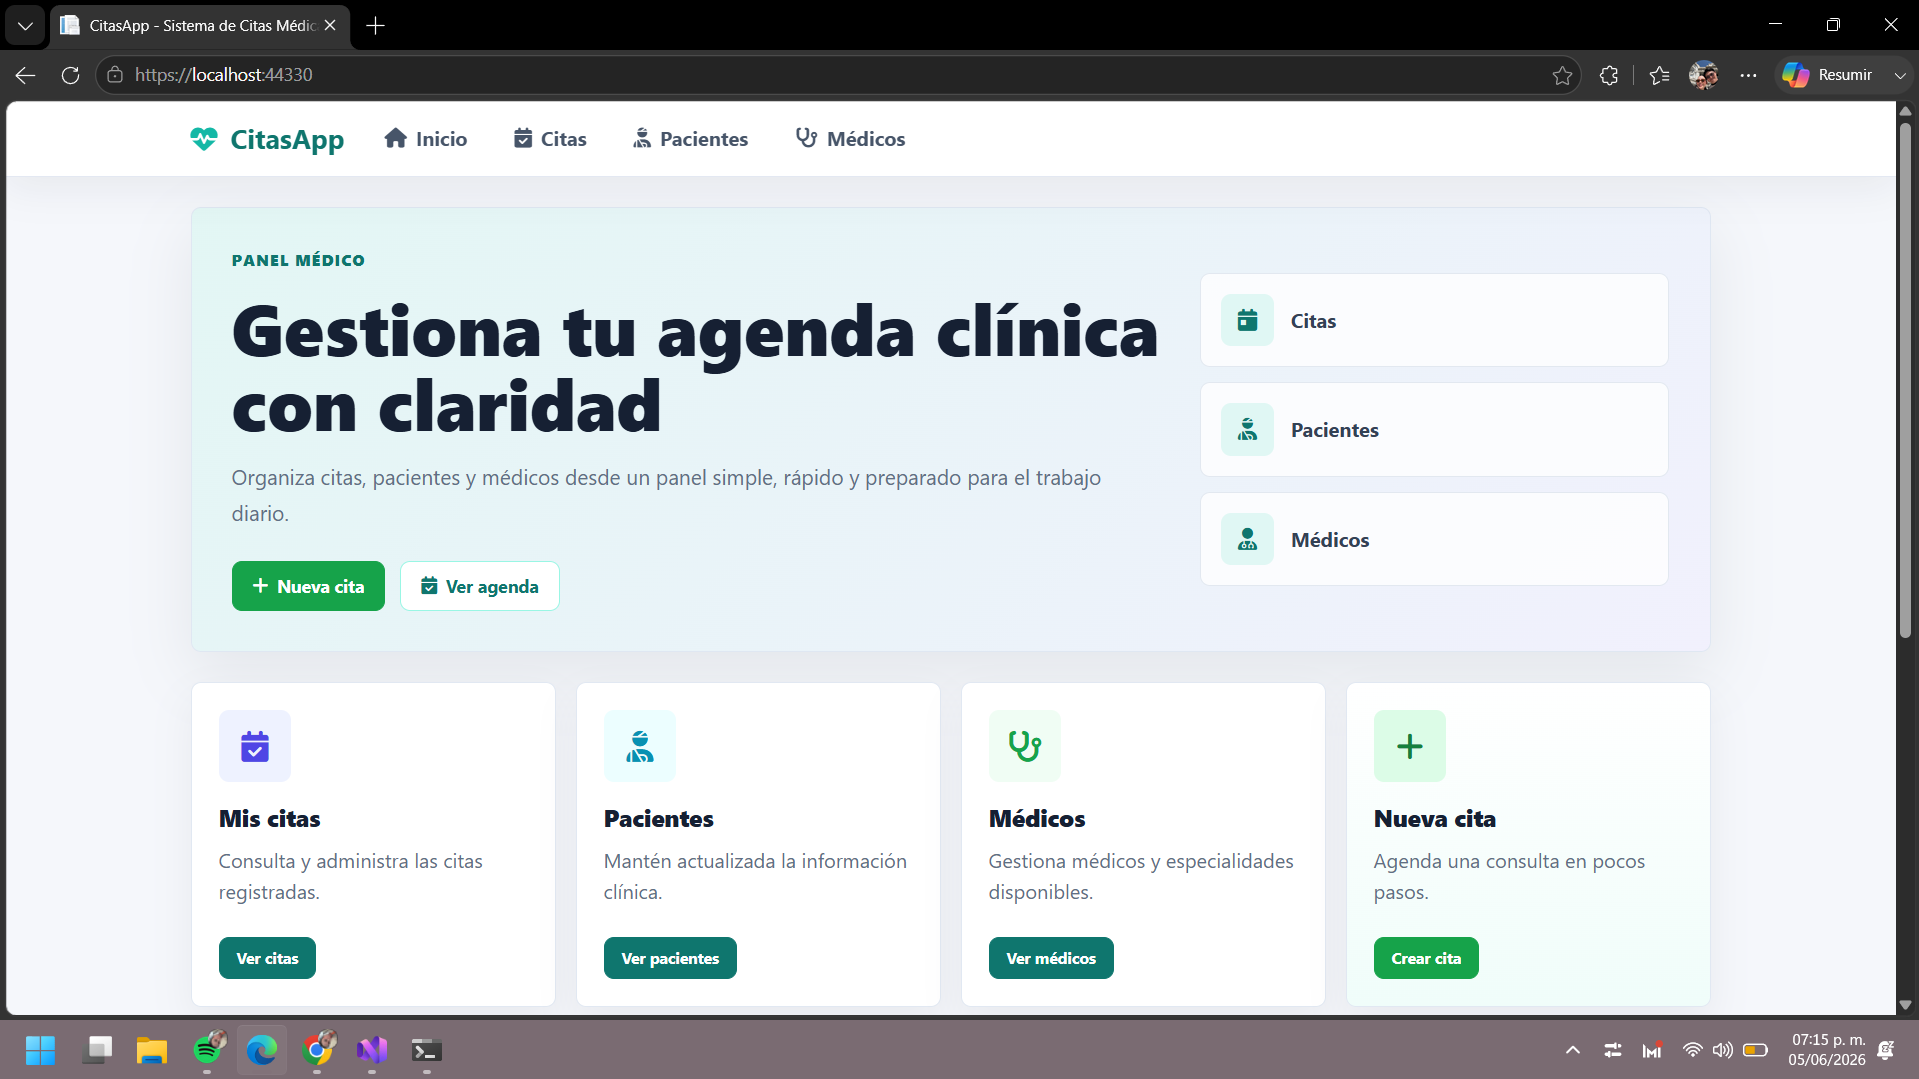
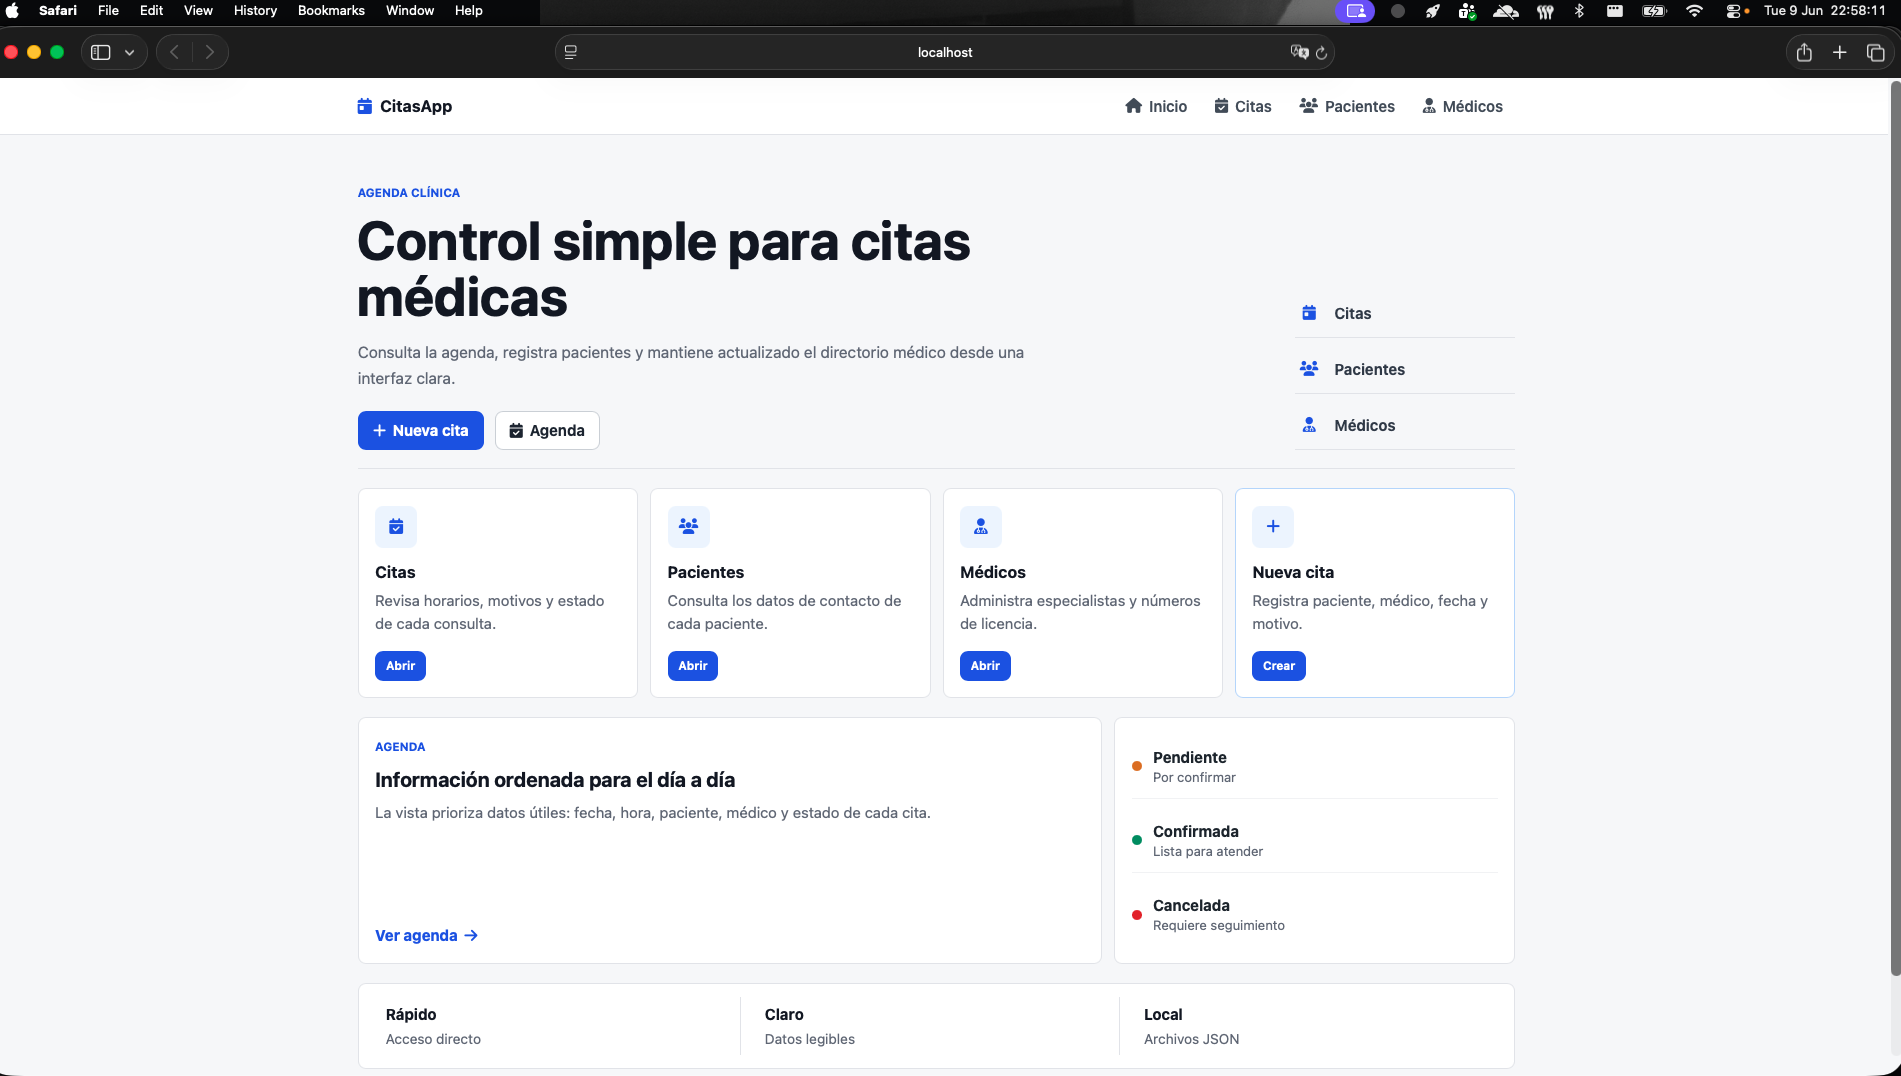
docs: Actualizar readme con arquitectura hexagonal multi-proyecto

diff --git a/README.md b/README.md
@@ -1,94 +1,127 @@
 # CitasApp
 
-Es una aplicación web desarrollada con ASP.Net Core MVC para gestionar citas médicas de forma sencilla. Permite administrar
-pacientes, médicos y citas desde una interfaz clara y organizada. 
+CitasApp es una app web sencilla para llevar el control de citas medicas. La idea es tener en un solo lugar los pacientes, los medicos y las citas, sin tener que configurar una base de datos ni montar algo demasiado pesado.
+
+Esta hecha con ASP.NET Core MVC y guarda la informacion en archivos JSON, asi que funciona bien para practicar arquitectura, vistas, controladores, repositorios e interfaces.
 
 ## Objetivo
 
-El objetivo de esta actividad es comprender las vistas arquitectónicas y los trade-offs mediante la creación de la aplicación.
+El objetivo del proyecto es aplicar conceptos de arquitectura de software en una aplicacion real pero pequena. La app sirve para entender como se separan responsabilidades entre controladores, modelos, vistas, interfaces y repositorios.
 
-## Tecnologías Usadas
- - ASP.Net Core MVC
- - CSS Personalizado
- - Archivos JSON como almacenamiento de datos
- - Razor para las vistas
- - Bootstrap para el diseño responsivo
- 
+Tambien ayuda a ver algunos trade-offs: por ejemplo, usar JSON hace que el proyecto sea mas facil de correr, aunque no sea la opcion mas completa para una app grande.
+
+## Que se puede hacer
+
+- Ver una pantalla principal con accesos rapidos.
+- Registrar pacientes.
+- Registrar medicos.
+- Crear citas relacionando paciente, medico, fecha, hora, motivo y estado.
+- Editar informacion existente.
+- Eliminar registros cuando ya no se necesiten.
+- Consultar citas por paciente.
+
+## Tecnologias usadas
+
+- ASP.NET Core MVC
+- C#
+- Razor Views
+- Bootstrap
+- CSS personalizado
+- Archivos JSON como almacenamiento local
+
 ## Estructura del proyecto
-  ```text
-  CitasApp/
-  ├── Controllers/
-  │   ├── CitaController.cs
-  │   ├── HomeController.cs
-  │   ├── MedicoController.cs
-  │   └── PacienteController.cs
-  ├── Models/
-  │   ├── Cita.cs
-  │   ├── Medico.cs
-  │   └── Paciente.cs
-  ├── Views/
-  │   ├── Cita/
-  │   ├── Home/
-  │   ├── Medico/
-  │   ├── Paciente/
-  │   └── Shared/
-  ├── Repositories/
-  ├── ímages/
-  ├── Interfaces/
-  ├── Data/
-  │   ├── citas.json
-  │   ├── Medicos.json
-  │   └── Pacientes.json
-  └── wwwroot/
-      └── css/
-          └── site.css
- ```
 
- ## Requisitos
+```text
+CitasApp/
+├── Controllers/
+│   ├── CitaController.cs
+│   ├── HomeController.cs
+│   ├── MedicoController.cs
+│   └── PacienteController.cs
+├── Models/
+│   ├── Cita.cs
+│   ├── Medico.cs
+│   └── Paciente.cs
+├── Views/
+│   ├── Cita/
+│   ├── Home/
+│   ├── Medico/
+│   ├── Paciente/
+│   └── Shared/
+├── Interfaces/
+├── Repositories/
+├── Data/
+│   ├── Citas.json
+│   ├── Medicos.json
+│   └── Pacientes.json
+└── wwwroot/
+    ├── css/
+    └── js/
+```
 
- Antes de ejecutar el proyectio, se debe instalar: 
+## Requisitos
 
- - .NET SDK 10 o superior.
- 
- ## Cómo ejecutar
+Para correr el proyecto necesitas tener instalado:
 
- 1. Clona o abre el proyecto.
- 2. Entra a la carpeta del proyecto
-     ```sh
-     cd CitasApp
-     ```
- 3. Restaura las dependencias:
-     ```sh
-     dotner restore
-     ```
- 4. Ejecuta la aplicación.
-     ```sh
-     dotnet run 
-     ```
- 5. Abre el navegador en la URL que indique.
- 
- ## Resultado
+- .NET SDK 10 o superior
 
- ![Inicio](images/inicio.png)
- ![Citas](images/citas.png)
-![Pacientes](images/pacientes.png)
- ![Médicos](images/medicos.png)
+## Como ejecutar
 
- ## Módulos principales
+Desde la carpeta del proyecto:
 
- Muestra un panel principal con accesos rápidos para consultar citas, pacientes, médicos y crear una nueva cita.
+```bash
+dotnet restore
+dotnet run
+```
 
- ### Citas
-  Permite listar, crear, editar y eliminar citas. Al crear o editar una cita, se selecciona el paciente, el médico y la fecha.
+Despues abre en el navegador la URL que indique la consola. En este proyecto normalmente se usa:
 
-  ### Pacientes
-  Permite listar, crear, editar y eliminar pacientes. Cada paciente tiene un nombre, edad y número de contacto.
+```text
+http://localhost:5066
+```
 
-  ### Médicos
-  Permite listar, crear, editar y eliminar médicos. Cada médico tiene un nombre, especialidad y número de licencia.
+Tambien puedes abrir la solucion en Rider usando `CitasApp.sln`.
 
-  ## Almacenamiento de datos
-  Actualmente, la aplicación utiliza archivos JSON dentro de la carpeta Data para almacenar la información de citas, pacientes y médicos. Esto facilita la gestión de datos sin necesidad de configurar una base de datos.
+## Modulos principales
 
-  ## Cláusula de IA
- Este proyecto fue desarrollado utilizando herramientas como los proyectos pasados realizados, el uso de Inteligencia Artificial para hacer el linkeo de los Datos y la Interfaz permitiendo obtener una aplicación fluida y funcional.
+### Inicio
+
+Muestra una vista general y accesos directos a las partes principales del sistema.
+
+### Citas
+
+Permite listar, crear, editar y eliminar citas. Cada cita incluye paciente, medico, fecha, hora, motivo y estado.
+
+### Pacientes
+
+Permite listar, crear, editar y eliminar pacientes. Cada paciente guarda datos basicos como nombre, apellido, correo y telefono.
+
+### Medicos
+
+Permite listar, crear, editar y eliminar medicos. Cada medico tiene nombre, apellido, especialidad y numero de licencia.
+
+## Almacenamiento de datos
+
+La app guarda la informacion en archivos JSON dentro de la carpeta `Data`. Esto hace que el proyecto sea facil de probar porque no requiere instalar ni configurar una base de datos.
+
+## Capturas
+
+### Pantalla de inicio
+
+![Pantalla de inicio](images/inicio.png)
+
+Esta es la vista principal de la aplicacion. Desde aqui se puede entrar rapido a citas, pacientes y medicos. Tambien aparece un acceso directo para crear una nueva cita sin tener que navegar tanto.
+
+El diseño se dejo mas minimalista: colores simples, tarjetas limpias y una estructura pensada para que se entienda rapido que hace cada modulo.
+
+### Agendar nueva cita
+
+![Formulario para agendar nueva cita](images/nueva-cita.png)
+
+Esta pantalla sirve para registrar una cita nueva. El formulario permite seleccionar paciente y medico, poner fecha, hora, motivo de consulta y estado inicial.
+
+La idea es que el formulario sea directo y facil de usar, sin demasiados elementos visuales que distraigan. Solo muestra los campos necesarios para crear la cita.
+
+## Nota sobre IA
+
+Para este proyecto se usaron herramientas de apoyo, incluyendo inteligencia artificial, principalmente para ordenar ideas, revisar estructura, conectar datos con la interfaz y mejorar la presentacion visual. La logica principal sigue siendo una app MVC sencilla basada en archivos JSON.
